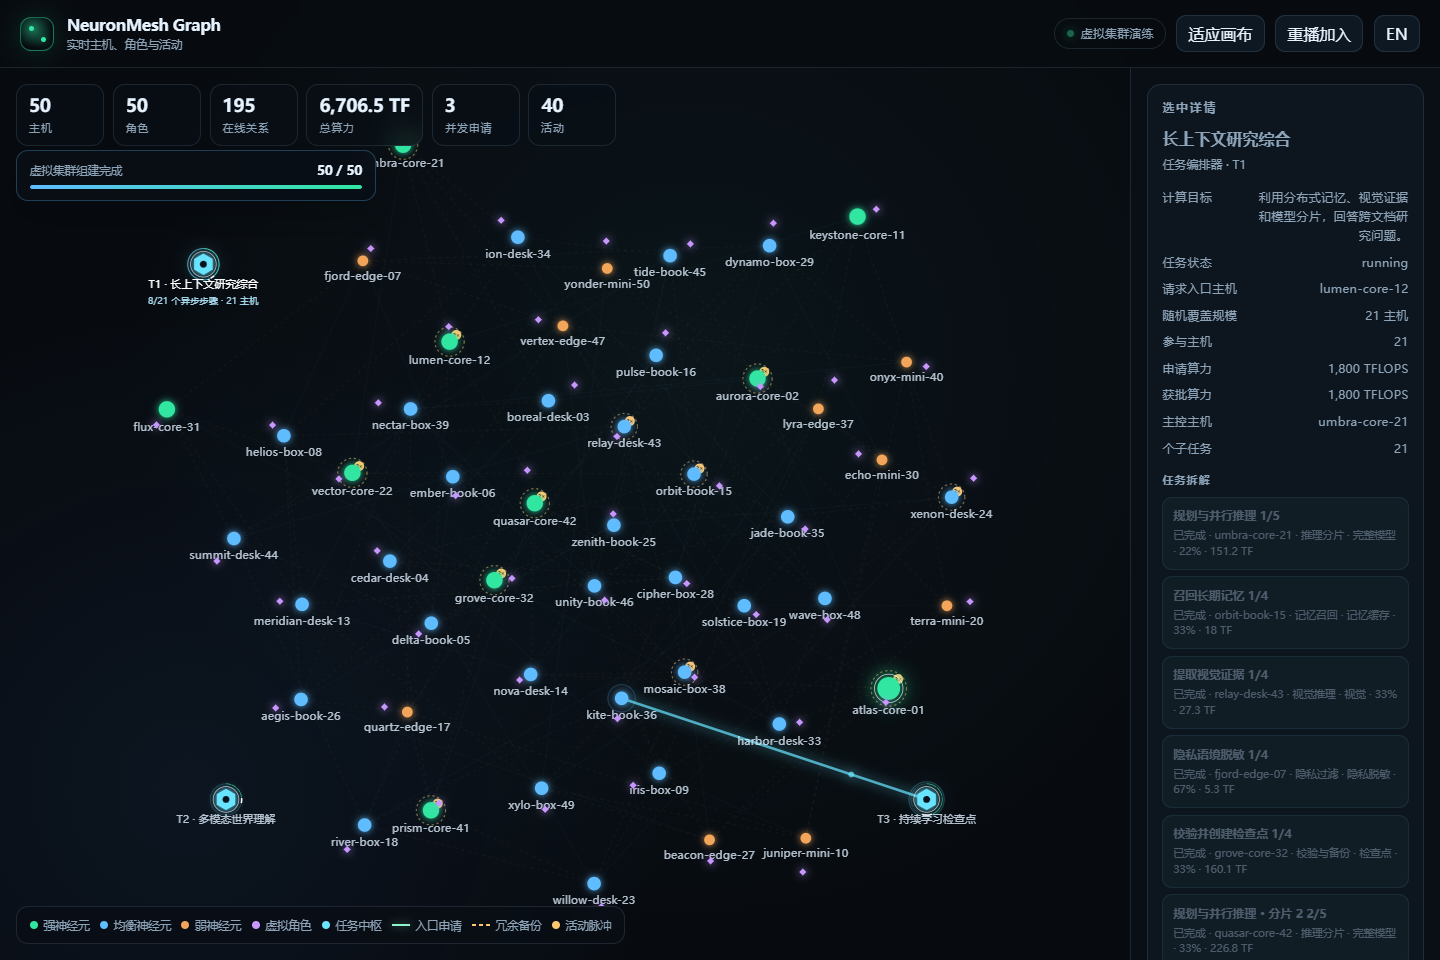
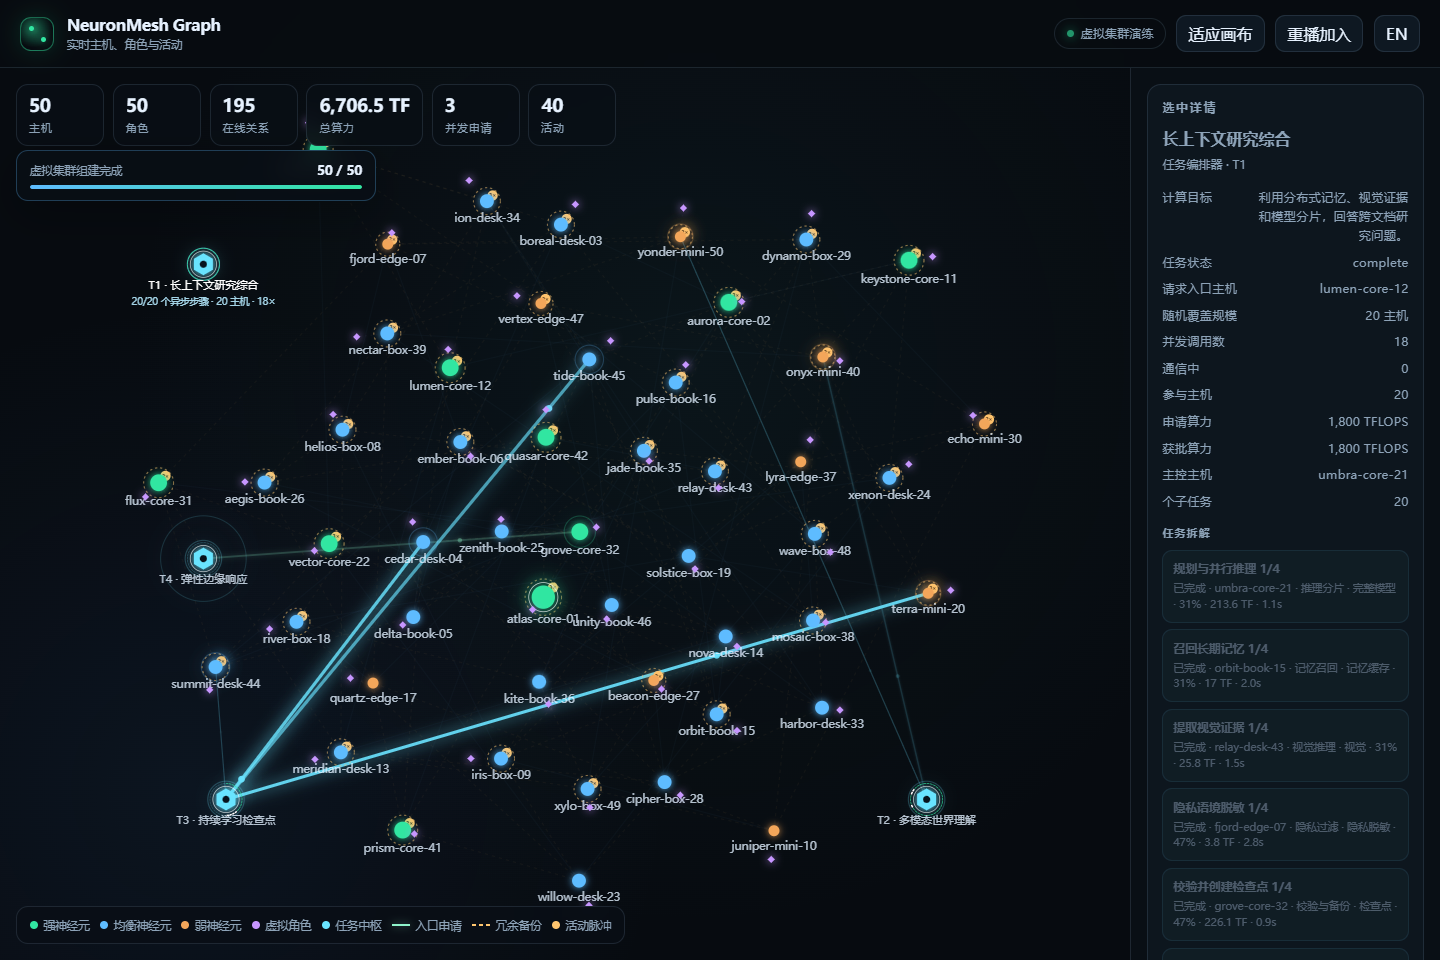
Vary concurrent host service durations

diff --git a/neuron_mesh/graph.html b/neuron_mesh/graph.html
@@ -533,6 +533,8 @@
           objective: "Objective",
           taskStatus: "Task status",
           coverageTarget: "Random host coverage",
+          parallelSlots: "Concurrent calls",
+          activeCalls: "Active calls",
           participants: "Participating hosts",
           computeBudget: "Participant capacity",
           coordinator: "Lead host",
@@ -625,6 +627,8 @@
           objective: "计算目标",
           taskStatus: "任务状态",
           coverageTarget: "随机覆盖规模",
+          parallelSlots: "并发调用数",
+          activeCalls: "通信中",
           participants: "参与主机",
           computeBudget: "参与算力",
           coordinator: "主控主机",
@@ -1285,6 +1289,11 @@
         return coverageDeck[coverageCursor++];
       }
 
+      function nextParallelWidth(coverage) {
+        if (coverage <= 1) return 1;
+        return 1 + Math.floor(demoRandom() * Math.min(20, coverage));
+      }
+
       function addDemoActivity(source, target, kind, detail = "", options = {}) {
         const now = Date.now() / 1000 + clockOffset;
         const targets = (Array.isArray(target) ? target : [target]).filter(Boolean);
@@ -1625,14 +1634,11 @@
         );
         const participants = [...new Set(assignments.map((item) => item.host_id))];
         if (participants.length < 1) return null;
+        const parallelWidth = nextParallelWidth(participants.length);
 
         const now = Date.now() / 1000 + clockOffset;
         const taskId = `task:${demoGeneration}:${nextTaskSequence}`;
         nextTaskSequence += 1;
-        const dispatchGap = Math.max(
-          0.34,
-          Math.min(1.2, 8 / Math.max(1, targetCoverage)),
-        );
         const position = chooseTaskPosition();
         const coordinator = participants
           .map((hostId) => demoPlan.hostsById.get(hostId))
@@ -1646,6 +1652,7 @@
           label: `${task.code} · ${localizedText(task.title)}`,
           status: "running",
           target_coverage: targetCoverage,
+          parallel_width: parallelWidth,
           assignments,
           participant_ids: participants,
           compute_tflops: 0,
@@ -1654,11 +1661,10 @@
           coordinator_id: coordinator?.id || participants[0],
           stage_cursor: 0,
           completed_assignments: 0,
-          active_assignment_index: null,
-          dispatch_gap: dispatchGap,
-          next_dispatch_at: now + 2.2,
+          active_assignment_indices: [],
+          service_start_at: now + 2.2,
           started_at: now,
-          expires_at: now + 7.2 + targetCoverage * dispatchGap,
+          expires_at: now + 300,
           joined_at: now,
           reveal_at: now,
           pinned_x: position.x,
@@ -1757,39 +1763,62 @@
         }
       }
 
+      function serviceDurationForAssignment(task, assignment) {
+        const host = demoPlan?.hostsById.get(assignment.host_id);
+        const allocated = Math.max(0.5, Number(assignment.allocated_tflops || 0));
+        const stageWeight = 0.88 + (assignment.stage_index % 5) * 0.065;
+        const jitter = 0.78 + demoRandom() * 0.66;
+        const duration = (0.55 + 5.4 / Math.sqrt(allocated + 1)) *
+          stageWeight *
+          jitter;
+        return Math.max(0.65, Math.min(4.8, duration));
+      }
+
       function asyncDispatchTask(task, now) {
-        const previousIndex = task.active_assignment_index;
-        if (previousIndex != null) {
-          const previous = task.assignments[previousIndex];
-          if (previous?.status === "active") {
-            previous.status = "done";
+        const stillActive = [];
+        (task.active_assignment_indices || []).forEach((assignmentIndex) => {
+          const assignment = task.assignments[assignmentIndex];
+          if (assignment?.status !== "active") return;
+          if (assignment.ends_at <= now) {
+            assignment.status = "done";
             task.completed_assignments += 1;
+          } else {
+            stillActive.push(assignmentIndex);
           }
-        }
-        const nextIndex = task.assignments.findIndex(
-          (assignment) => assignment.status === "pending",
-        );
-        if (nextIndex < 0) {
+        });
+        task.active_assignment_indices = stillActive;
+        if (now < task.service_start_at) return;
+
+        const pendingIndices = task.assignments
+          .map((assignment, index) => ({ assignment, index }))
+          .filter((item) => item.assignment.status === "pending")
+          .map((item) => item.index);
+        if (!pendingIndices.length && !stillActive.length) {
           task.status = "complete";
-          task.active_assignment_index = null;
           task.expires_at = now + 2.2;
           updateDashboardMetrics();
           if (selectedId === task.id) renderDetails();
           return;
         }
-        const assignment = task.assignments[nextIndex];
-        assignment.status = "active";
-        task.active_assignment_index = nextIndex;
-        task.stage_cursor = assignment.stage_index;
-        task.next_dispatch_at = now + task.dispatch_gap;
-        const eventDuration = Math.max(0.22, task.dispatch_gap * 0.78);
-        addDemoActivity(task.id, [assignment.host_id], "task", {
-          en: `Async ${nextIndex + 1}/${task.assignments.length} · ${assignment.stage_name.en} · ${assignment.share_percent}% allocation`,
-          zh: `异步阶段 ${nextIndex + 1}/${task.assignments.length} · ${assignment.stage_name.zh} · 分配 ${assignment.share_percent}%`,
-        }, {
-          duration: eventDuration,
+
+        const freeSlots = Math.max(0, task.parallel_width - stillActive.length);
+        const nextBatch = pendingIndices.slice(0, freeSlots);
+        nextBatch.forEach((assignmentIndex) => {
+          const assignment = task.assignments[assignmentIndex];
+          const duration = serviceDurationForAssignment(task, assignment);
+          assignment.status = "active";
+          assignment.started_at = now;
+          assignment.ends_at = now + duration;
+          assignment.service_seconds = duration;
+          task.active_assignment_indices.push(assignmentIndex);
+          addDemoActivity(task.id, [assignment.host_id], "task", {
+            en: `Async call ${assignmentIndex + 1}/${task.assignments.length} · ${assignment.stage_name.en} · service ${duration.toFixed(1)}s`,
+            zh: `异步调用 ${assignmentIndex + 1}/${task.assignments.length} · ${assignment.stage_name.zh} · 服务 ${duration.toFixed(1)} 秒`,
+          }, {
+            duration,
+          });
         });
-        if (selectedId === task.id) renderDetails();
+        if (nextBatch.length && selectedId === task.id) renderDetails();
       }
 
       function demoPulse() {
@@ -1807,10 +1836,9 @@
           tasks = activeDemoTasks();
         }
         if (!tasks.length) return;
-        const dueTasks = tasks.filter((task) => now >= task.next_dispatch_at);
-        if (!dueTasks.length) return;
-        const task = dueTasks[demoPulseIndex % dueTasks.length];
-        asyncDispatchTask(task, now);
+        tasks
+          .filter((task) => now >= task.service_start_at)
+          .forEach((task) => asyncDispatchTask(task, now));
       }
 
       function clearDemoRun() {
@@ -2088,6 +2116,8 @@
           rows.push([t("taskStatus"), node.status]);
           rows.push([t("requestedBy"), labelForNodeId(node.requester_id)]);
           rows.push([t("coverageTarget"), `${node.target_coverage} ${t("hosts")}`]);
+          rows.push([t("parallelSlots"), String(node.parallel_width || 1)]);
+          rows.push([t("activeCalls"), String(node.active_assignment_indices?.length || 0)]);
           rows.push([t("participants"), String(node.participant_ids?.length || 0)]);
           rows.push([t("requestedCompute"), `${formatNumber(node.requested_tflops)} TFLOPS`]);
           rows.push([t("grantedCompute"), `${formatNumber(node.compute_tflops)} TFLOPS`]);
@@ -2141,7 +2171,10 @@
             const taskCapabilities = (assignment.capabilities || [assignment.capability])
               .map(capabilityLabel)
               .join(" + ");
-            detail.textContent = `${t(assignment.status || "pending")} · ${labelForNodeId(assignment.host_id)} · ${localizedText(assignment.contribution)} · ${taskCapabilities} · ${assignment.share_percent}% · ${formatNumber(assignment.allocated_tflops)} TF`;
+            const serviceTime = assignment.service_seconds
+              ? ` · ${assignment.service_seconds.toFixed(1)}s`
+              : "";
+            detail.textContent = `${t(assignment.status || "pending")} · ${labelForNodeId(assignment.host_id)} · ${localizedText(assignment.contribution)} · ${taskCapabilities} · ${assignment.share_percent}% · ${formatNumber(assignment.allocated_tflops)} TF${serviceTime}`;
             step.append(stage, detail);
             section.append(step);
           });
@@ -2173,7 +2206,10 @@
               const heading = document.createElement("strong");
               heading.textContent = `${task.code} · ${localizedText(task.title)}`;
               const detail = document.createElement("span");
-              detail.textContent = `${t(assignment.status || "pending")} · ${localizedText(assignment.stage_name)} · ${localizedText(assignment.contribution)} · ${assignment.share_percent}% · ${formatNumber(assignment.allocated_tflops)} TF`;
+              const serviceTime = assignment.service_seconds
+                ? ` · ${assignment.service_seconds.toFixed(1)}s`
+                : "";
+              detail.textContent = `${t(assignment.status || "pending")} · ${localizedText(assignment.stage_name)} · ${localizedText(assignment.contribution)} · ${assignment.share_percent}% · ${formatNumber(assignment.allocated_tflops)} TF${serviceTime}`;
               card.append(heading, detail);
               section.append(card);
             });
@@ -2624,7 +2660,7 @@
           ctx.font = `${9.5 / fontScale}px Inter, "Microsoft YaHei", sans-serif`;
           ctx.fillStyle = "rgba(174, 225, 245, 0.94)";
           ctx.fillText(
-            `${node.completed_assignments}/${node.assignments.length} ${t("asyncSteps")} · ${node.target_coverage} ${t("hosts")}`,
+            `${node.completed_assignments}/${node.assignments.length} ${t("asyncSteps")} · ${node.target_coverage} ${t("hosts")} · ${node.parallel_width}×`,
             node.x,
             node.y + radius + 7 + 17 / fontScale,
           );

diff --git a/docs/index.html b/docs/index.html
@@ -140,15 +140,16 @@
           animated pulses on the corresponding relationship line. A browser-generated
           rehearsal introduces 50 heterogeneous hosts with hardware, compute, Agent roles
           and cross-domain redundancy. Up to three ingress hosts can request capacity
-          at the same time. Each decomposed plan randomly covers 1–40 hosts, then calls
-          one stage worker at a time asynchronously with shared-host allocations and
-          automatic rebalancing.
+          at the same time. Each decomposed plan randomly covers 1–40 hosts, then
+          asynchronously contacts a random 1–20 host batch with shared-host
+          allocations, automatically rebalanced capacity and per-host service
+          deadlines that finish at different times.
         </p>
         <div class="actions compact-actions">
           <a class="secondary" href="https://github.com/yanxee/neuron-mesh/blob/main/docs/DEMO.md#6-preview-a-50-host-fleet">Preview 50 hosts</a>
         </div>
       </div>
-      <img class="graph-preview" src="assets/fleet50-dashboard.png" alt="NeuronMesh graph showing concurrent ingress requests, shared host allocations and asynchronous task dispatch">
+      <img class="graph-preview" src="assets/fleet50-dashboard.png" alt="NeuronMesh graph showing concurrent ingress requests, 1–20 concurrent calls and unequal per-host service windows">
     </section>
 
     <section class="research">

diff --git a/docs/zh-CN/index.html b/docs/zh-CN/index.html
@@ -134,14 +134,15 @@
           远端推理和加密存储支持发生时，对应关系线会出现短暂的发光与流动脉冲。
           浏览器生成的演练会逐个加入 50 台异构主机，并展示硬件、算力、Agent 角色
           和跨故障域冗余关系。最多 3 个入口主机可并发申请资源；每个拆解后的
-          计划随机覆盖 1–40 台主机，再按阶段逐台异步调用，并展示共享主机分配
-          和自动再平衡。
+          计划随机覆盖 1–40 台主机，再以随机 1–20 台为一个异步批次进行调用，
+          并展示共享主机分配、自动再平衡，以及每个主机独立计算、结束时间不同的
+          通信服务窗口。
         </p>
         <div class="actions compact-actions">
           <a class="secondary" href="https://github.com/yanxee/neuron-mesh/blob/main/docs/DEMO.zh-CN.md#6-预览-50-台主机的虚拟集群">预览 50 台主机</a>
         </div>
       </div>
-      <img class="graph-preview" src="../assets/fleet50-dashboard.png" alt="NeuronMesh 关系图，显示多入口并发申请、共享主机资源分配和异步任务调度">
+      <img class="graph-preview" src="../assets/fleet50-dashboard.png" alt="NeuronMesh 关系图，显示多入口并发申请、1–20 台并发调用和主机独立服务时长">
     </section>
 
     <section class="research">

diff --git a/tests/test_graph.py b/tests/test_graph.py
@@ -34,7 +34,9 @@ def test_graph_dashboard_exposes_roles_relations_and_activity(tmp_path: Path) ->
         assert "requested_tflops" in page.text
         assert "share_percent" in page.text
         assert "nextCoverageTarget" in page.text
+        assert "nextParallelWidth" in page.text
         assert "asyncDispatchTask" in page.text
+        assert "serviceDurationForAssignment" in page.text
 
         assert client.get("/v1/observability/graph").status_code == 401
         assert client.get("/v1/roles/summary").status_code == 401

diff --git a/README.md b/README.md
@@ -21,7 +21,7 @@
 
 **Search terms:** decentralized AI · distributed inference · large language models · LLM network · peer-to-peer AI · federated learning · continual learning · persistent memory · long-term memory · heterogeneous computing · edge AI · multi-modal AI · OpenAI-compatible API · 去中心化大模型 · 分布式推理 · 联邦学习 · 长期记忆 · 异构算力
 
-![NeuronMesh graph with concurrent ingress requests, random 1–40 host coverage and asynchronous task dispatch](docs/assets/fleet50-dashboard.png)
+![NeuronMesh graph with concurrent ingress requests, random host coverage, 1–20 concurrent calls and unequal per-host service windows](docs/assets/fleet50-dashboard.png)
 
 ## Help build the measurable network
 
@@ -163,8 +163,10 @@ The graph asks for the configured bearer token and keeps it in tab memory only. 
 Open <http://127.0.0.1:8000/graph?demo=fleet50> for a browser-generated 50-host
 fleet rehearsal. This visual simulation does not claim that 50 real nodes exist.
 The rehearsal also cycles through five task objectives and randomly covers between
-1 and 40 hosts for each decomposed plan. A task contacts one stage worker at a
-time, waits for its call window, then proceeds to the next host asynchronously.
+1 and 40 hosts for each decomposed plan. Each asynchronous batch contacts a random
+1–20 hosts at once. Every call keeps its own service deadline derived from host
+capacity, allocated share and stage work, so slow or lightly funded hosts remain
+connected longer while faster hosts release their slots earlier.
 Up to three entry hosts can request resources concurrently; shared hosts expose
 their per-task compute percentages, and expired requests are replaced and
 rebalanced automatically.

diff --git a/docs/DEMO.zh-CN.md b/docs/DEMO.zh-CN.md
@@ -89,9 +89,13 @@ python scripts/graph_demo.py --open
 任务中枢可查看计算目标、请求入口、随机覆盖规模、主控主机、获批算力以及每台
 主机的具体分工。
 
-任务不会同时连接所有计划内主机。每次只向当前阶段的一台主机发起调用，显示
-短暂的通信脉冲，结束后再异步推进到下一台主机。单主机计划会把多个阶段串行
-合并到一台机器；较大计划则把阶段扩展到最多 40 台分片执行主机。
+任务不会同时连接所有计划内主机。每个异步批次会同时联系随机 1–20 台主机，
+显示短暂的通信脉冲，结束后再推进到下一批。单主机计划会把多个阶段串行合并到
+一台机器；较大计划则把阶段扩展到最多 40 台分片执行主机。
+
+每个子任务都有独立的通信结束时间，根据获批 TFLOPS、阶段复杂度和确定性抖动
+计算。快速或份额较高的主机会较早完成，释放并发槽位并让下一台等待主机接入；
+慢速或低份额主机会保持更长的通信脉冲，因此同一批次不会同时结束。
 
 调度器会同时保持最多 3 个申请处于活动状态，每个申请由不同入口主机发起。
 绿色请求脉冲表示主机向任务中枢申请资源，青色脉冲表示当前正在通信的唯一阶段

diff --git a/docs/DEMO.md b/docs/DEMO.md
@@ -94,10 +94,16 @@ and 40 hosts to each plan. Select the task hub to inspect the objective, request
 ingress, random coverage size, lead host, allocated capacity and every host
 assignment.
 
-A task does not hold simultaneous connections to all planned workers. Each stage
-dispatches to one host, shows a short animated communication window, and advances
-to the next host after the call finishes. Small one-host plans bundle several
-stages on one machine; large plans spread stages across up to 40 shard workers.
+A task does not hold simultaneous connections to all planned workers. Each
+asynchronous batch contacts a random 1–20 hosts, shows a short animated
+communication window, and advances to the next batch after the calls finish.
+Small one-host plans bundle several stages on one machine; large plans spread
+stages across up to 40 shard workers.
+
+Each assignment has an independent service deadline calculated from allocated
+TFLOPS, stage complexity and deterministic jitter. Faster or better-funded hosts
+complete first and free a concurrency slot for another waiting host; slower hosts
+remain connected longer. This makes call overlap and release visibly uneven.
 
 The scheduler keeps up to three requests active at once, each initiated by a
 different ingress host. Green request pulses show host-to-task intent, while cyan

diff --git a/CHANGELOG.zh-CN.md b/CHANGELOG.zh-CN.md
@@ -9,9 +9,10 @@
 - 增加类似 Obsidian 的实时主机、虚拟角色和短时跨节点活动关系图。
 - 增加 50 台虚拟主机逐个加入的可视化，可查看硬件、算力、能力、Agent 角色和
   跨故障域冗余备份信息。
-- 增加任务驱动的异步调度视图，展示计算目标拆解和单主机通信脉冲。
+- 增加任务驱动的异步调度视图，展示计算目标拆解和随机 1–20 台主机的通信批次。
 - 增加多入口并发申请、共享主机租约、比例资源分配视图和任务自动替换。
 - 增加 1–40 台主机的随机覆盖计划、低覆盖阶段的串行合并和高覆盖阶段的分片。
+- 增加随机 1–20 台主机的并发通信窗口、独立主机服务时长、错峰完成和空槽即时补位。
 
 ## 0.2.0 - 2026-10-30
 

diff --git a/CHANGELOG.md b/CHANGELOG.md
@@ -10,11 +10,13 @@
 - Add a deterministic 50-host fleet-join visualization with hardware, compute,
   capability, Agent-role and cross-failure-domain redundancy details.
 - Add task-driven asynchronous scheduling with decomposable objectives and
-  single-worker communication pulses across heterogeneous hosts.
+  random 1–20-host communication batches across heterogeneous hosts.
 - Add concurrent ingress requests, shared host leases, proportional allocation
   views and automatic task replacement.
 - Add shuffled 1–40 host coverage plans with bundled low-resource stages and
   sharded high-coverage stages.
+- Add random 1–20-host concurrency windows with independent per-host service
+  duration, staggered completion and just-in-time slot refill.
 
 ## 0.2.0 - 2026-10-30
 
